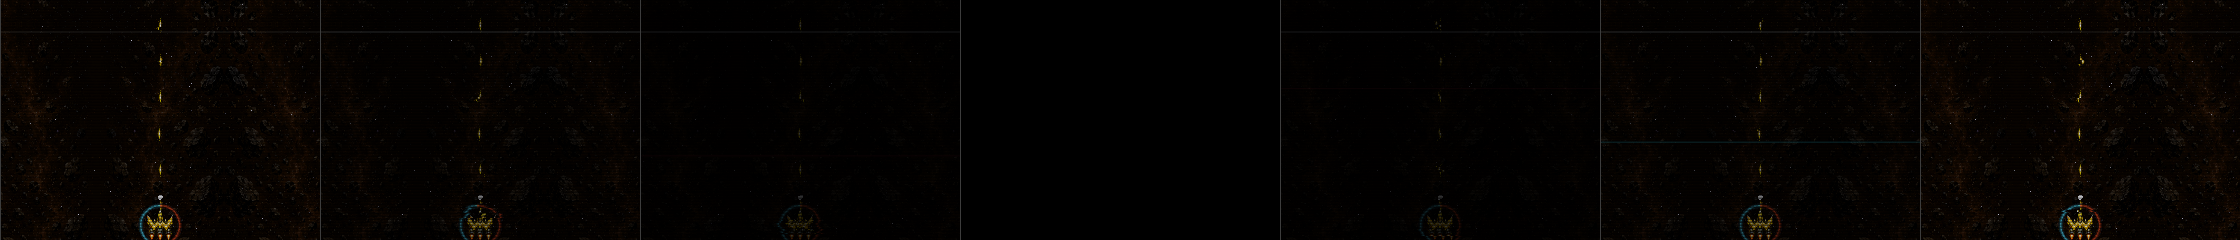
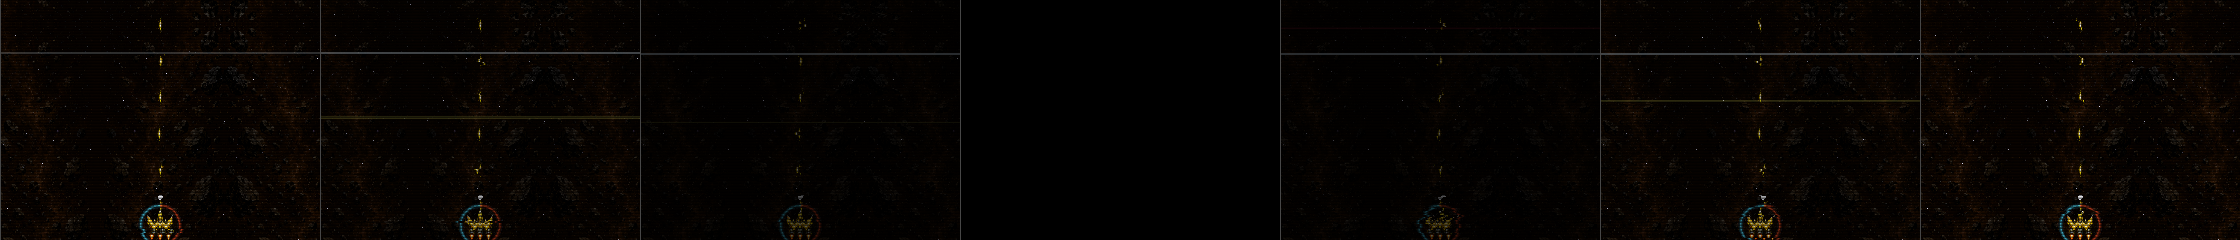
v0.9.425: tune transition fade — ease-in black curve + double the glitch
Per feedback: the black fade now follows an ease-in curve (alpha = 255*prog^2.5,
_FX_FADE_CURVE) instead of linear, so the scene stays bright for most of the fade
then drops to full black suddenly at the end — keeping the frame (and the glitch
on it) visible longer. Symmetric on the fade-in. And the glitch intensity ceiling
is doubled (_FX_GLITCH_MAX 3.2 -> 6.4) for heavier tearing/chroma.

Ref: screenshots/transition_fade_glitch.png.

diff --git a/pewpew.py b/pewpew.py
@@ -140,7 +140,7 @@ def _web_is_touch():
 # features, major for big-rewrites. Skipping the bump means the next user
 # sees the same number and can't tell if they're on the latest build.
 # ──────────────────────────────────────────────────────────────────────────
-VERSION = "0.9.424"
+VERSION = "0.9.425"
 
 # ──────────────────────────────────────────────────────────────────────────
 # HUD layout suppression
@@ -25788,7 +25788,11 @@ class GpuRenderer:
 # each; the CRT glitch ramps 0 → _FX_GLITCH_MAX on the way out and back down on
 # the way in (well past the in-play 1.0 ceiling for a violent tear-out).
 _FX_FADE_DUR = 0.25
-_FX_GLITCH_MAX = 3.2
+_FX_GLITCH_MAX = 6.4
+# Black-fade alpha curve exponent. >1 = ease-in: the scene stays bright for most
+# of the fade then drops to full black SUDDENLY at the end — keeps the frame (and
+# the glitch on it) visible longer instead of dimming linearly.
+_FX_FADE_CURVE = 2.5
 
 
 class App:
@@ -27425,7 +27429,8 @@ class App:
             self._fx_t += dt
             if self._fx_phase == "out":
                 prog = min(1.0, self._fx_t / _FX_FADE_DUR)
-                self._fx_compose(_FX_GLITCH_MAX * prog, int(255 * prog))
+                self._fx_compose(_FX_GLITCH_MAX * prog,
+                                 int(255 * prog ** _FX_FADE_CURVE))
                 if prog >= 1.0:
                     # ---- FULL BLACK: the heavy work lives here, hidden ----
                     if self._fx_pending is not None:
@@ -27450,7 +27455,7 @@ class App:
             elif self._fx_phase == "in":
                 prog = min(1.0, self._fx_t / _FX_FADE_DUR)
                 self._fx_compose(_FX_GLITCH_MAX * (1.0 - prog),
-                                 int(255 * (1.0 - prog)))
+                                 int(255 * (1.0 - prog) ** _FX_FADE_CURVE))
                 if prog >= 1.0:
                     self._fx_phase = None
                     self._fx_old_surf = self._fx_new_surf = None
